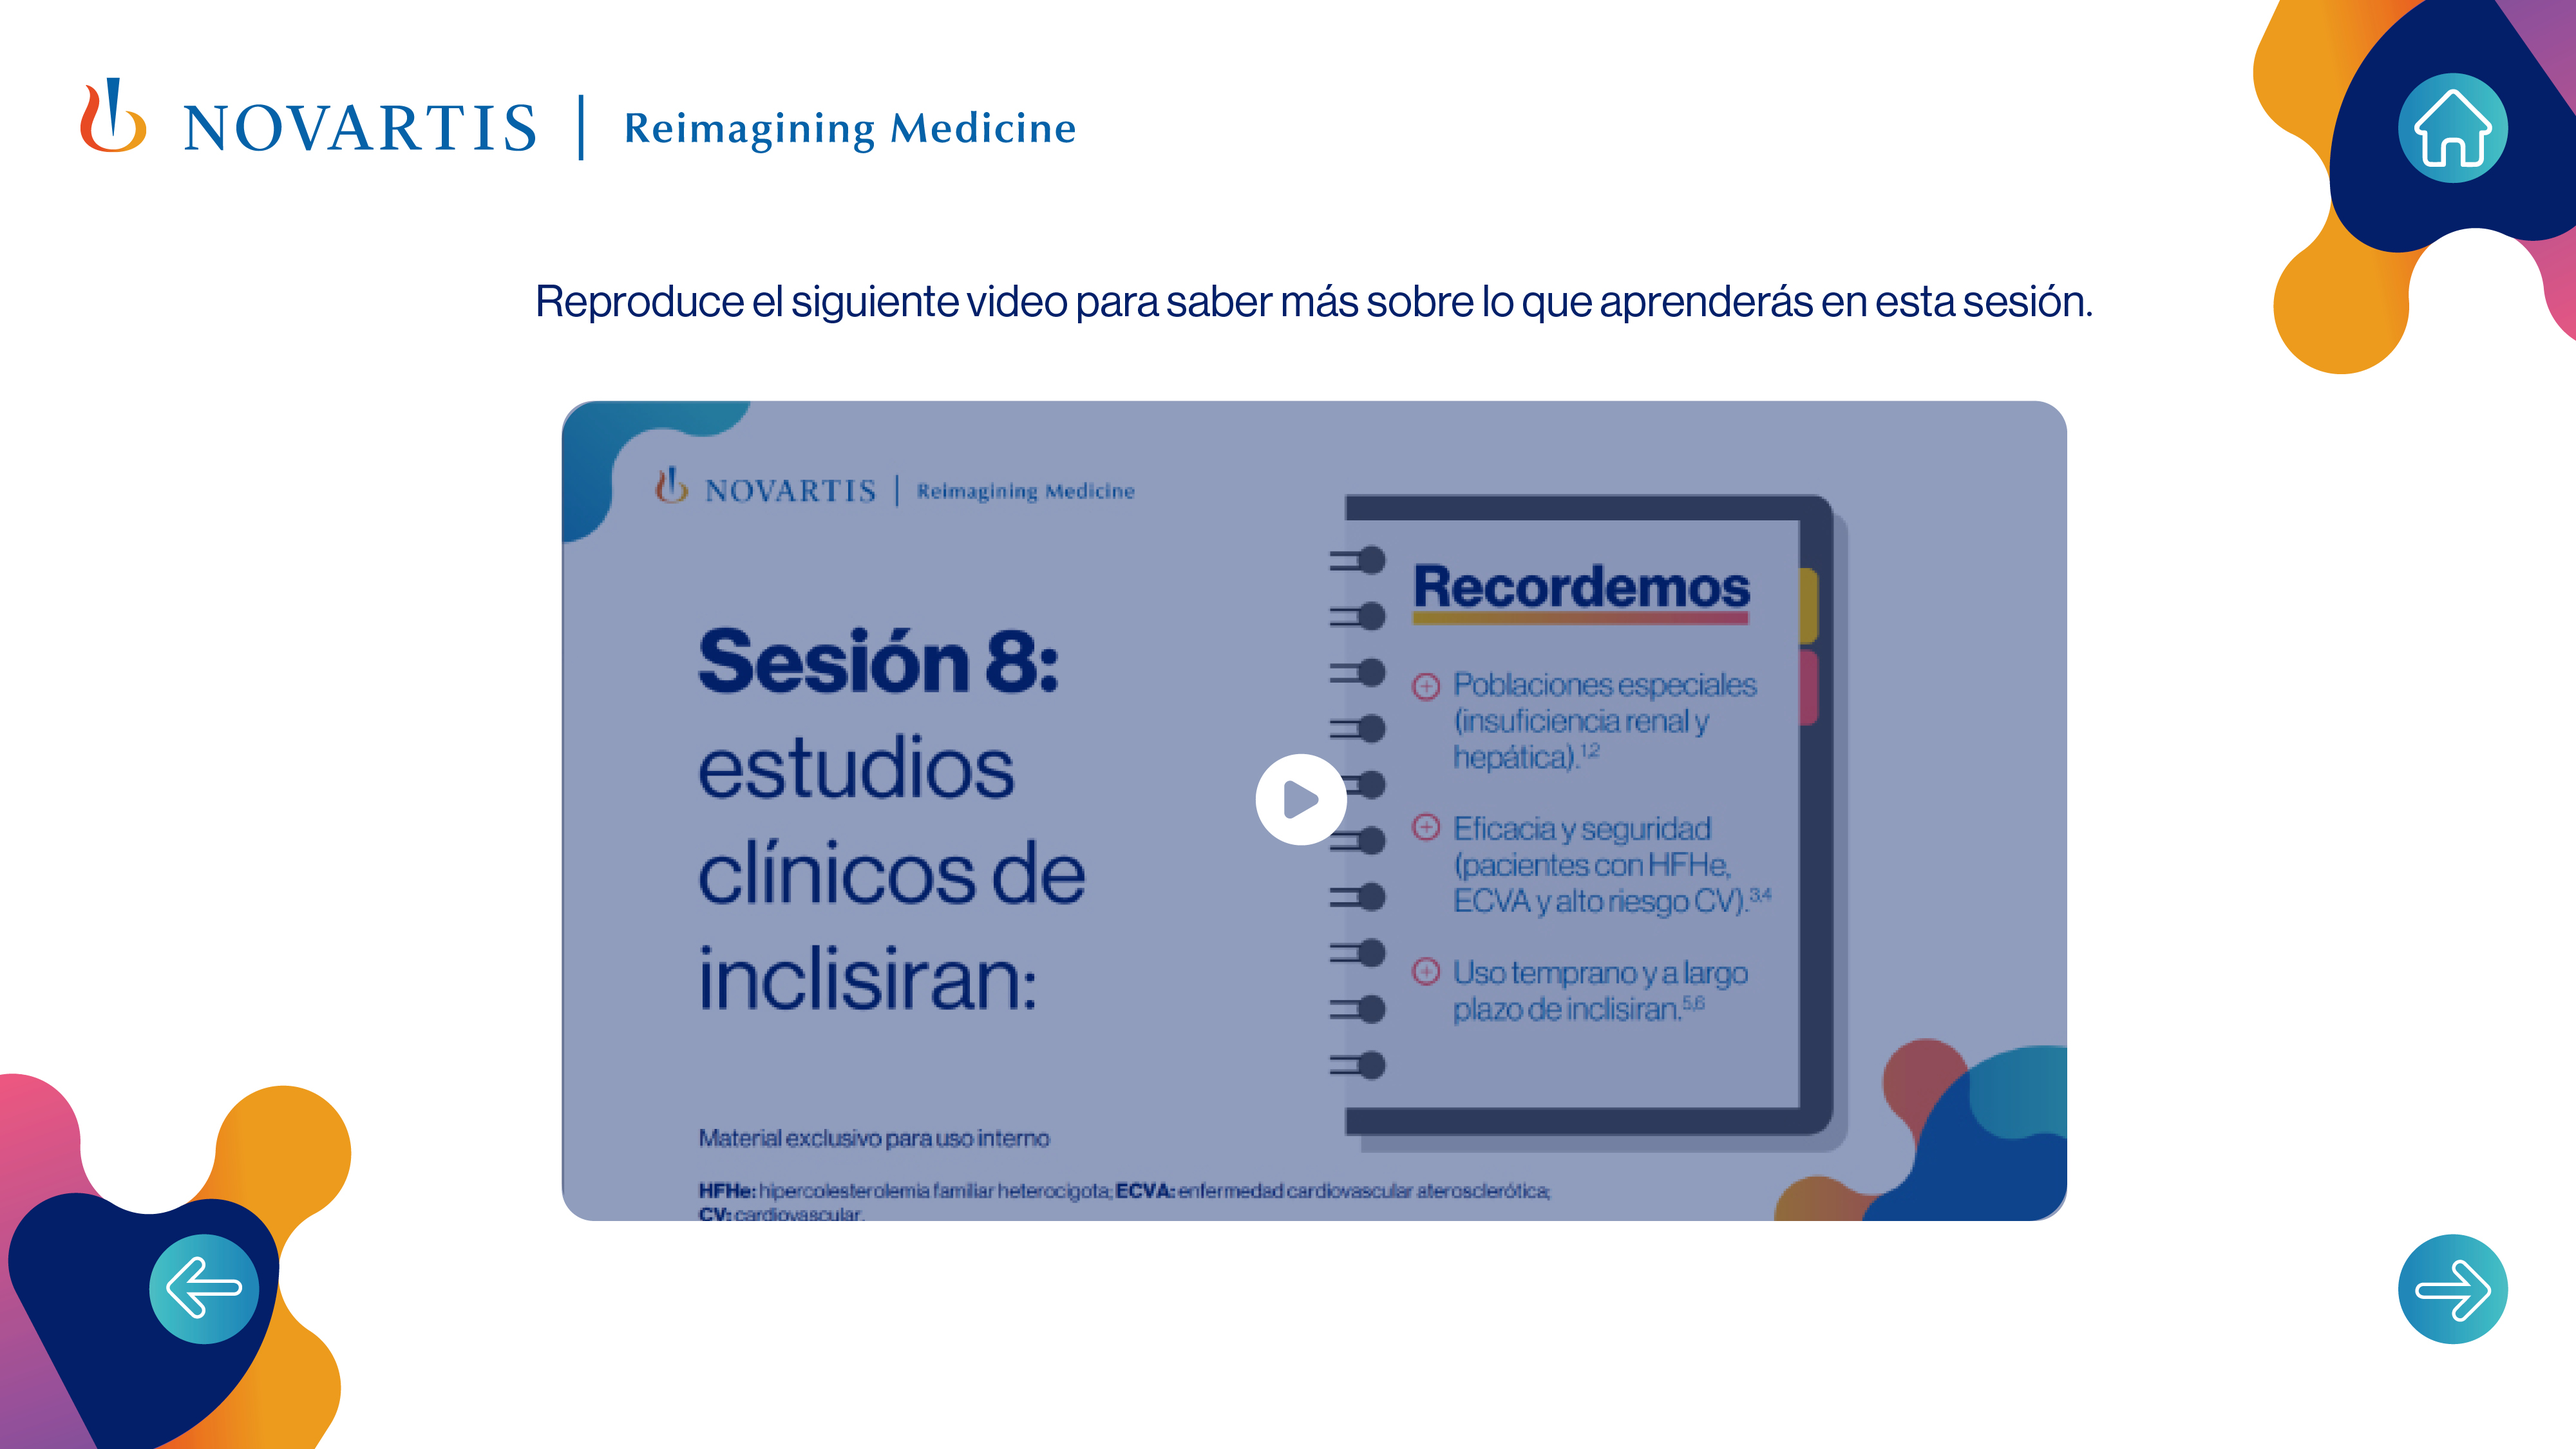
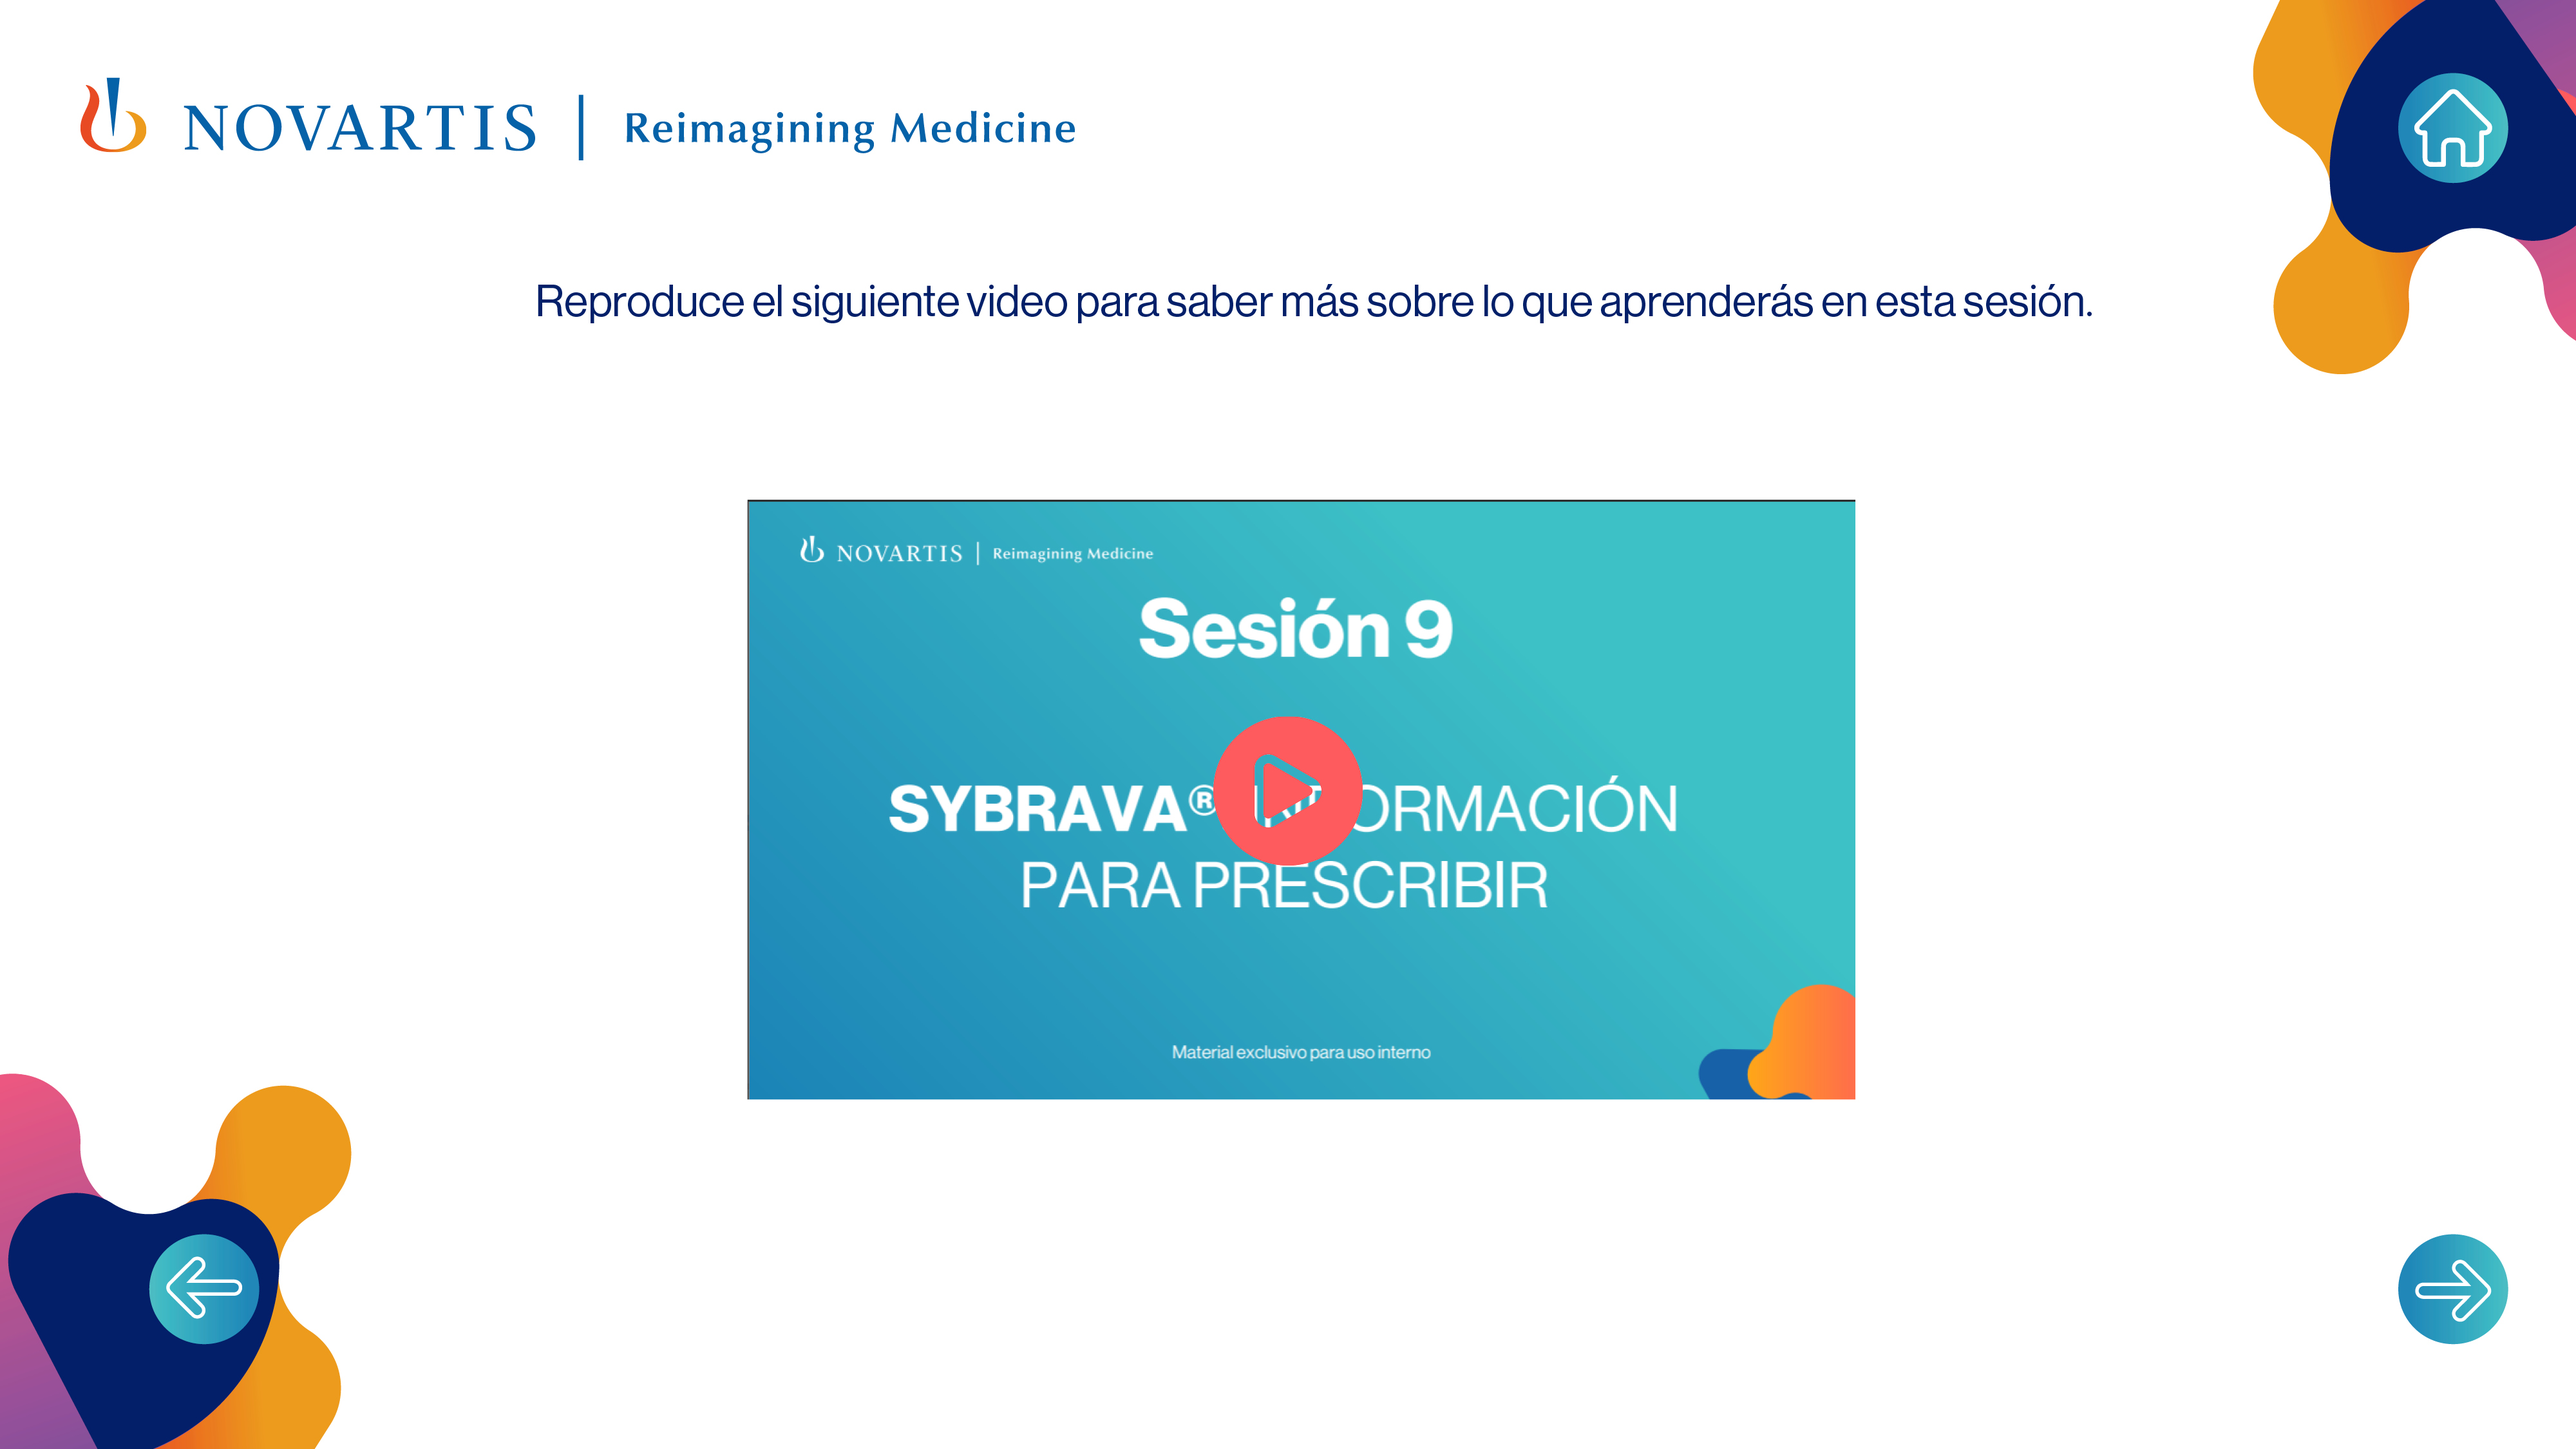
first commit 12

diff --git a/index575.html b/index575.html
@@ -28,7 +28,7 @@
 			<div class="play-boton"></div>
 			<video class="reproduc" id="reproduc" controls autoplay muted>
 				<source
-					src="https://eml.com.co/entresto/"
+					src="https://eml.com.co/entresto/VIDEO APLICACIÓN SYBRAVA 3-9.mp4"
 					type="video/mp4" />
 			</video>
 			<div class="video-2" id="video"></div>

diff --git a/css/styles558.css b/css/styles558.css
@@ -94,8 +94,8 @@ body {
 .boton-play {
 	position: absolute;
 	width: 6%;
-	top: 49.6%;
-    left: 46.3%;
+	top: 49%;
+    left: 46.9%;
 	animation-duration: 0.5s !important;
 }
 
